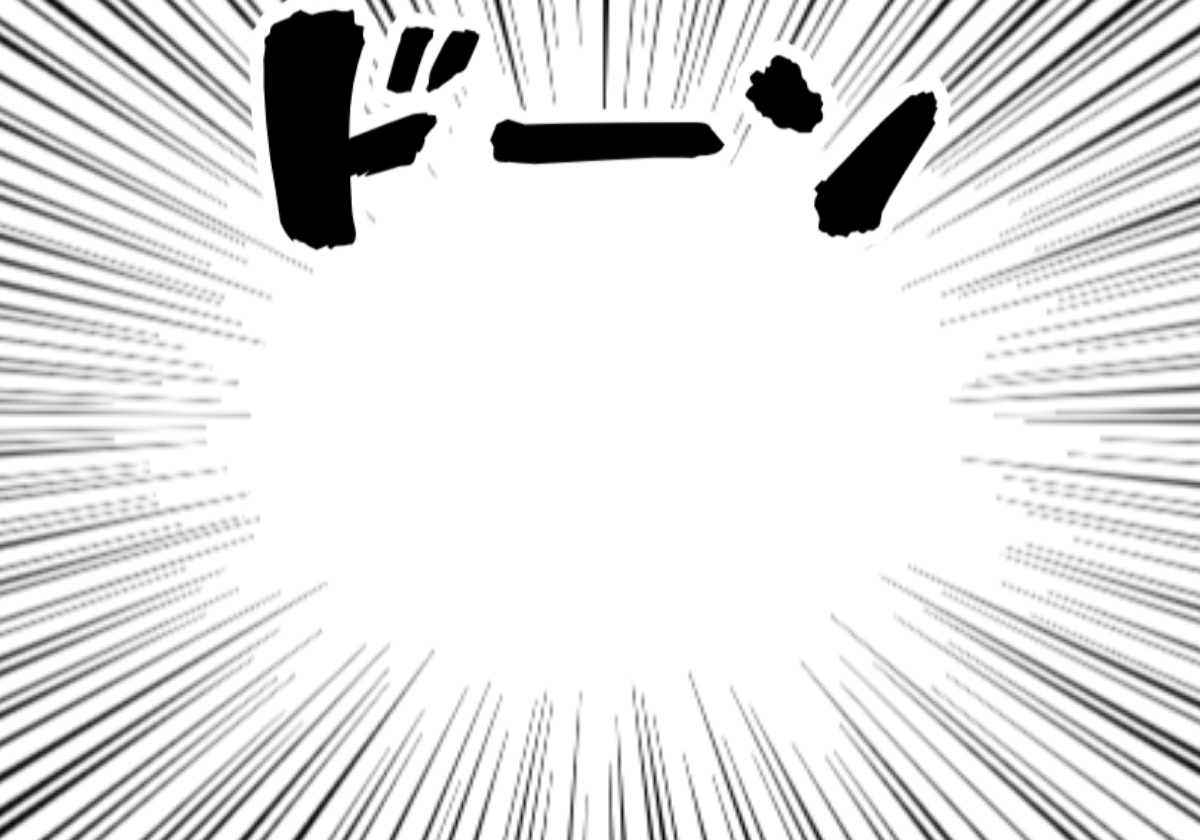
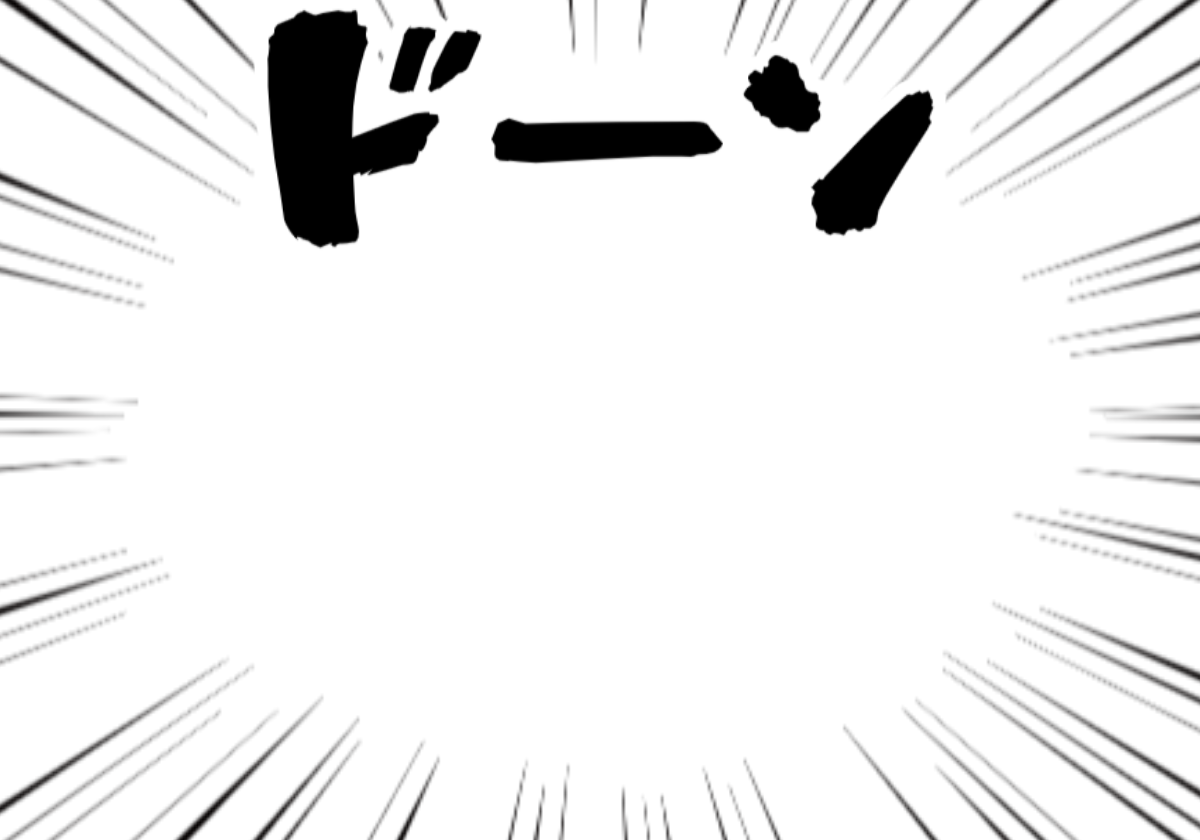
chore::+1: fix styles

diff --git a/pages/index.vue b/pages/index.vue
@@ -15,6 +15,12 @@
           <p class="text-gray-600 mb-3 text-base">
             {{ $t("選択できる画像は40Mバイトまでです。") }}
           </p>
+          <p class="text-gray-600 text-base">
+            {{ $t("推奨は4:3程度の横長の画像です。") }}
+          </p>
+          <p class="text-gray-600 mb-3 text-base">
+            {{ $t("縦長の画像の場合はうまく変換できない可能性が高いです。") }}
+          </p>
           <label
             class="bg-blue-600 cursor-pointer inline-flex items-center hover:bg-blue-400 text-white font-bold py-2 px-4 rounded-full"
           >
@@ -49,7 +55,7 @@
         <div class="w-full mt-3 sm:w-1/2 relative" id="image-container">
           <img
             v-if="!uploadImageUrl"
-            src="../assets/img/defaultPic.png"
+            src="../assets/img/background.jpg"
             alt="default"
             class="border-double border-4 border-gray-600"
             width="100%"
@@ -63,57 +69,69 @@
         </div>
       </div>
     </Section>
-    <Section title="背景画像を選ぶ">
-      <p
-        class="w-full text-center mt-3 text-gray-600 text-2xl mb-3"
-        v-if="!uploadImageUrl && !changedImageUrl"
-      >
-        {{ $t("先に画像を選択してください") }}
-      </p>
+    <Section title="背景エフェクトを選ぶ">
+      <div class="md:p-0 p-6 md:mb-3 w-full">
+        <p
+          class="w-full text-center mt-3 text-gray-600 md:text-2xl text-base"
+          v-if="!uploadImageUrl && !changedImageUrl"
+        >
+          {{ $t("先に画像を選択してください") }}
+        </p>
+        <p class="w-full text-center mt-3 text-gray-600 md:text-2xl text-base">
+          {{
+            $t(
+              "境界線のはっきりしていない画像の場合、うまく背景画像があたりません。"
+            )
+          }}
+        </p>
+      </div>
+
       <div
         v-for="back in backs"
         :key="back.id"
-        class="md:w-1/3 w-1/2 p-1 flex flex-col cursor-pointer"
+        class="md:w-1/3 w-1/2 p-1 cursor-pointer"
         :class="{
           'opacity-50 pointer-events-none': !uploadImageUrl || overlay,
         }"
       >
         <div
-          class="overflow-hidden rounded-lg shadow-lg transform transition hover:scale-105 duration-300 ease-in-out"
+          class="rounded-lg shadow-lg transform transition hover:scale-105 duration-300 ease-in-out"
           :class="{ 'border-4 border-blue-600': selectedBack === back[1] }"
           @click="selectedBack = back[1]"
         >
           <img
             :src="back[0]"
-            class="imageClass block w-full h-auto object-cover"
+            class="block w-full h-auto object-contain"
             alt="art"
           />
         </div>
       </div>
     </Section>
-    <Section title="画像の上に重ねる文字を選ぶ">
-      <p
-        class="w-full text-center mt-3 text-gray-600 text-2xl mb-3"
-        v-if="!uploadImageUrl && !changedImageUrl"
-      >
-        {{ $t("先に画像を選択してください") }}
-      </p>
+    <Section title="画像の上に重ねるエフェクトを選ぶ">
+      <div class="md:p-0 p-6 md:mb-3 w-full">
+        <p
+          class="w-full text-center mt-3 text-gray-600 md:text-2xl text-base"
+          v-if="!uploadImageUrl && !changedImageUrl"
+        >
+          {{ $t("先に画像を選択してください") }}
+        </p>
+      </div>
       <div
         v-for="front in fronts"
         :key="front.id"
-        class="md:w-1/3 w-1/2 p-1 flex flex-col cursor-pointer"
+        class="md:w-1/3 w-1/2 p-1 cursor-pointer"
         :class="{
           'opacity-50 pointer-events-none': !uploadImageUrl || overlay,
         }"
       >
         <div
-          class="overflow-hidden rounded-lg shadow-lg transform transition hover:scale-105 duration-300 ease-in-out"
+          class="rounded-lg shadow-lg transform transition hover:scale-105 duration-300 ease-in-out"
           :class="{ 'border-4 border-blue-600': selectedFront === front[1] }"
           @click="selectedFront = front[1]"
         >
           <img
             :src="front[0]"
-            class="imageClass block w-full h-auto object-cover"
+            class="block w-full h-auto object-contain"
             alt="art"
           />
         </div>
@@ -270,6 +288,9 @@ import Front2 from "~/assets/img/front_effects/2.png";
 import Front3 from "~/assets/img/front_effects/3.png";
 import Front4 from "~/assets/img/front_effects/4.png";
 import Front5 from "~/assets/img/front_effects/5.png";
+import Front6 from "~/assets/img/front_effects/6.png";
+import Front7 from "~/assets/img/front_effects/7.png";
+import Front8 from "~/assets/img/front_effects/8.png";
 export default {
   asyncData({ app }) {
     const locale = app.$cookies.get("locale");
@@ -311,6 +332,9 @@ export default {
         [Front3, 3],
         [Front4, 4],
         [Front5, 5],
+        [Front6, 6],
+        [Front7, 7],
+        [Front8, 8],
       ],
       selectedFront: 0,
       selectedBack: 0,
@@ -402,7 +426,7 @@ export default {
       const [file] = e.target.files;
       const image = await this.checkImageSize(file);
       if (image) {
-        this.base64 = await resizeImage(image);
+        this.base64 = await resizeImage(image, 1200, 1200);
       }
       if (this.$refs.fileInput.value) {
         this.$refs.fileInput.value = "";
@@ -456,10 +480,6 @@ export default {
   background-image: url("~/assets/img/background.jpg");
   background-repeat: repeat;
   background-size: 768px 432px;
-}
-
-.imageClass {
-  height: 200px;
 }
 .modalImageClass {
   max-height: 350px;
